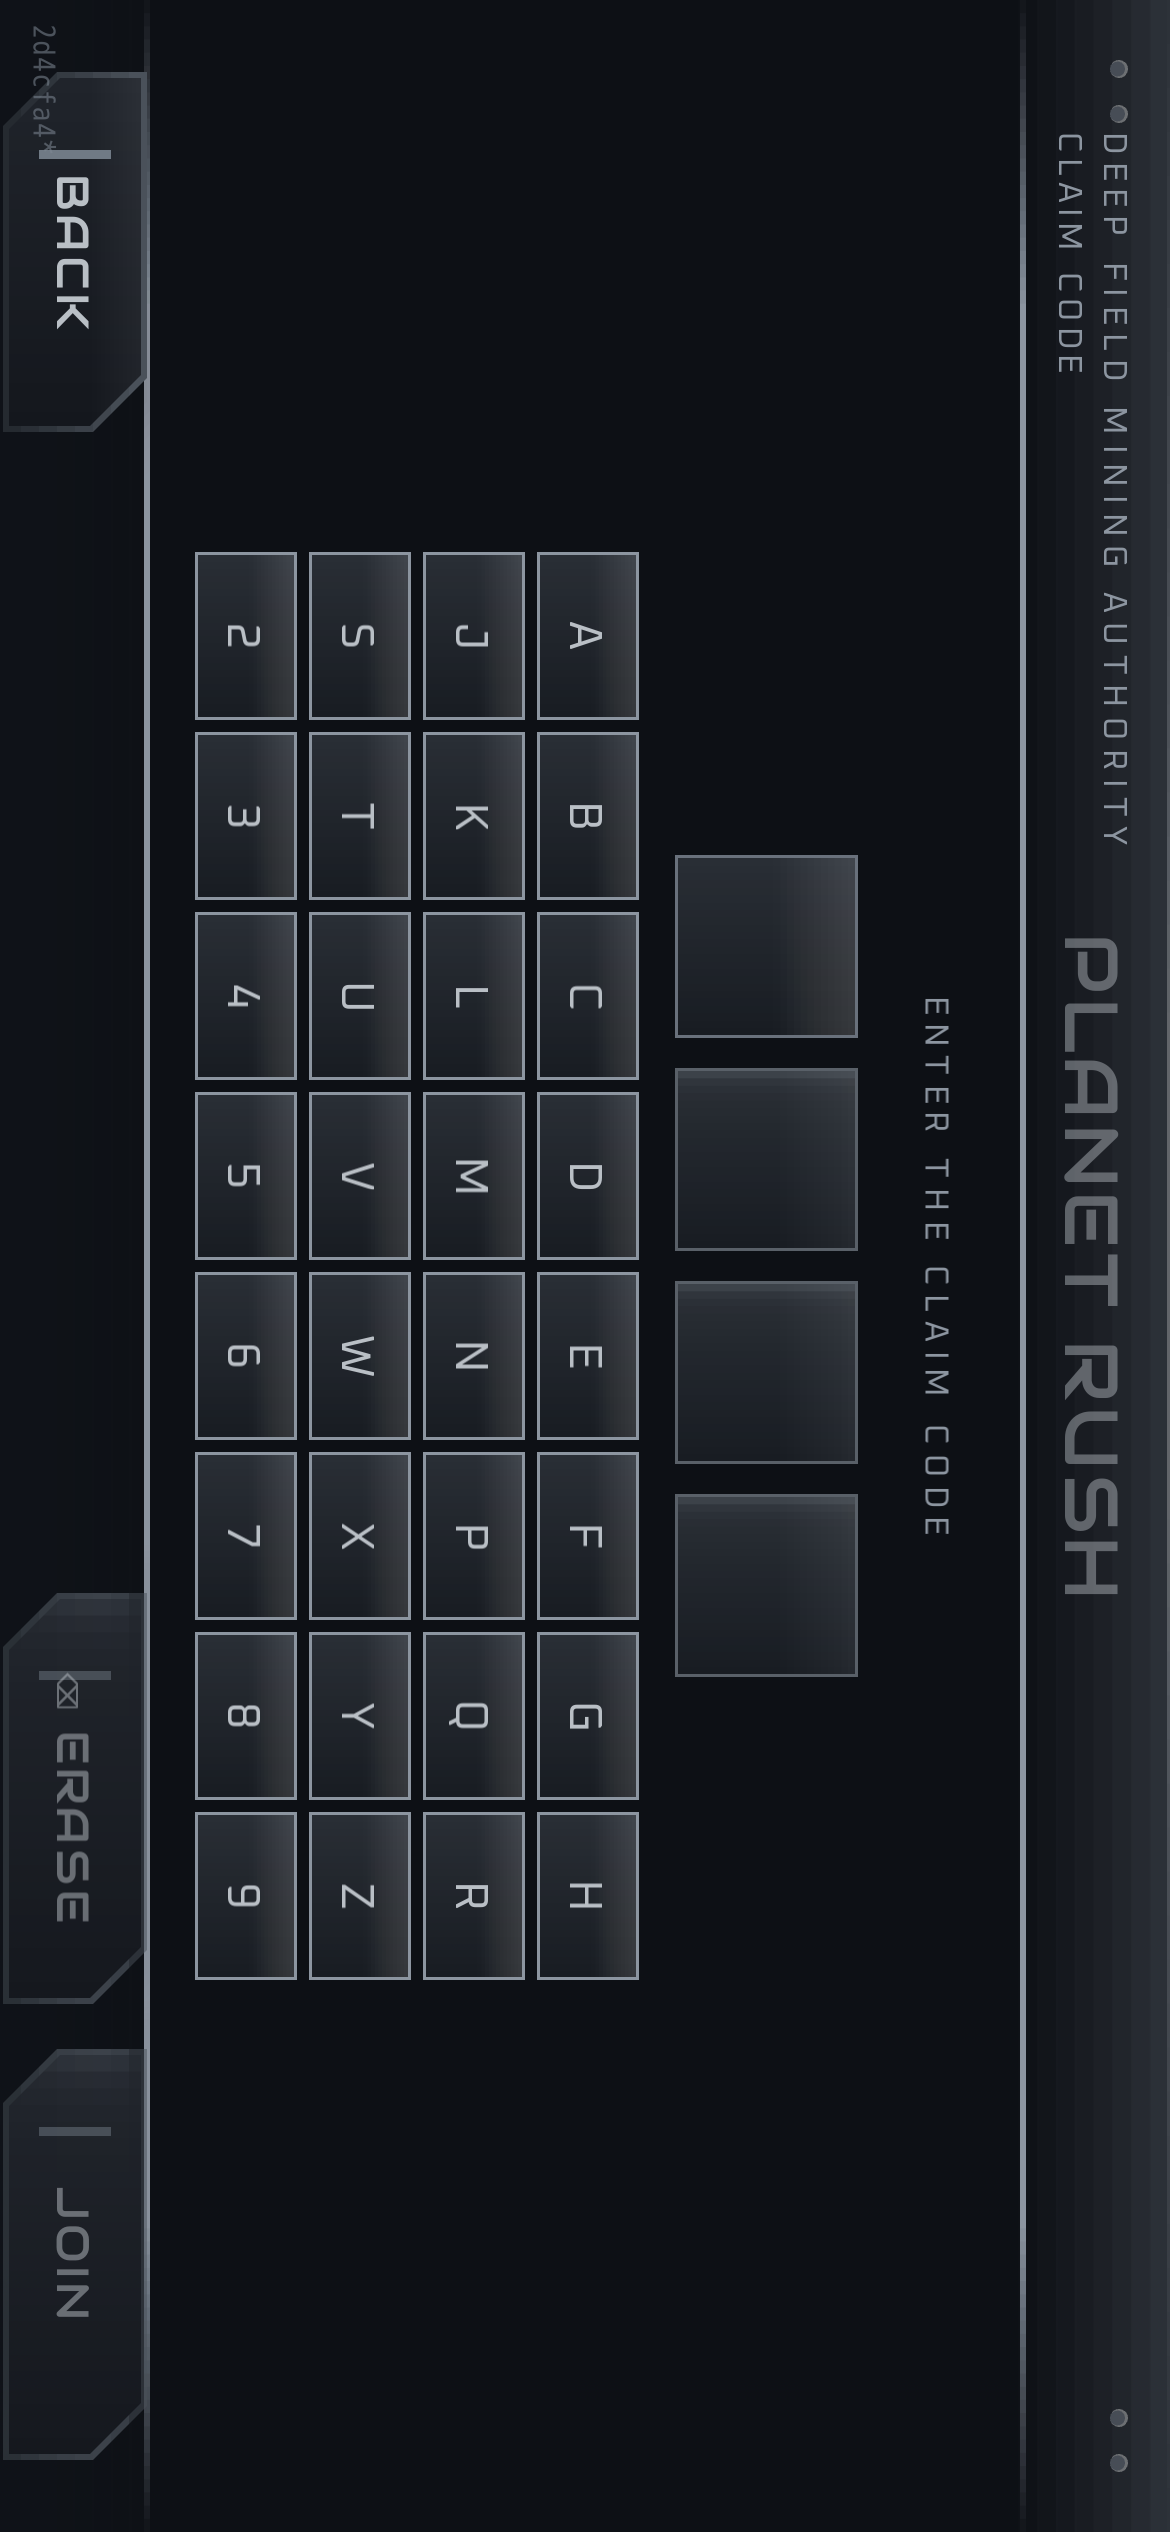
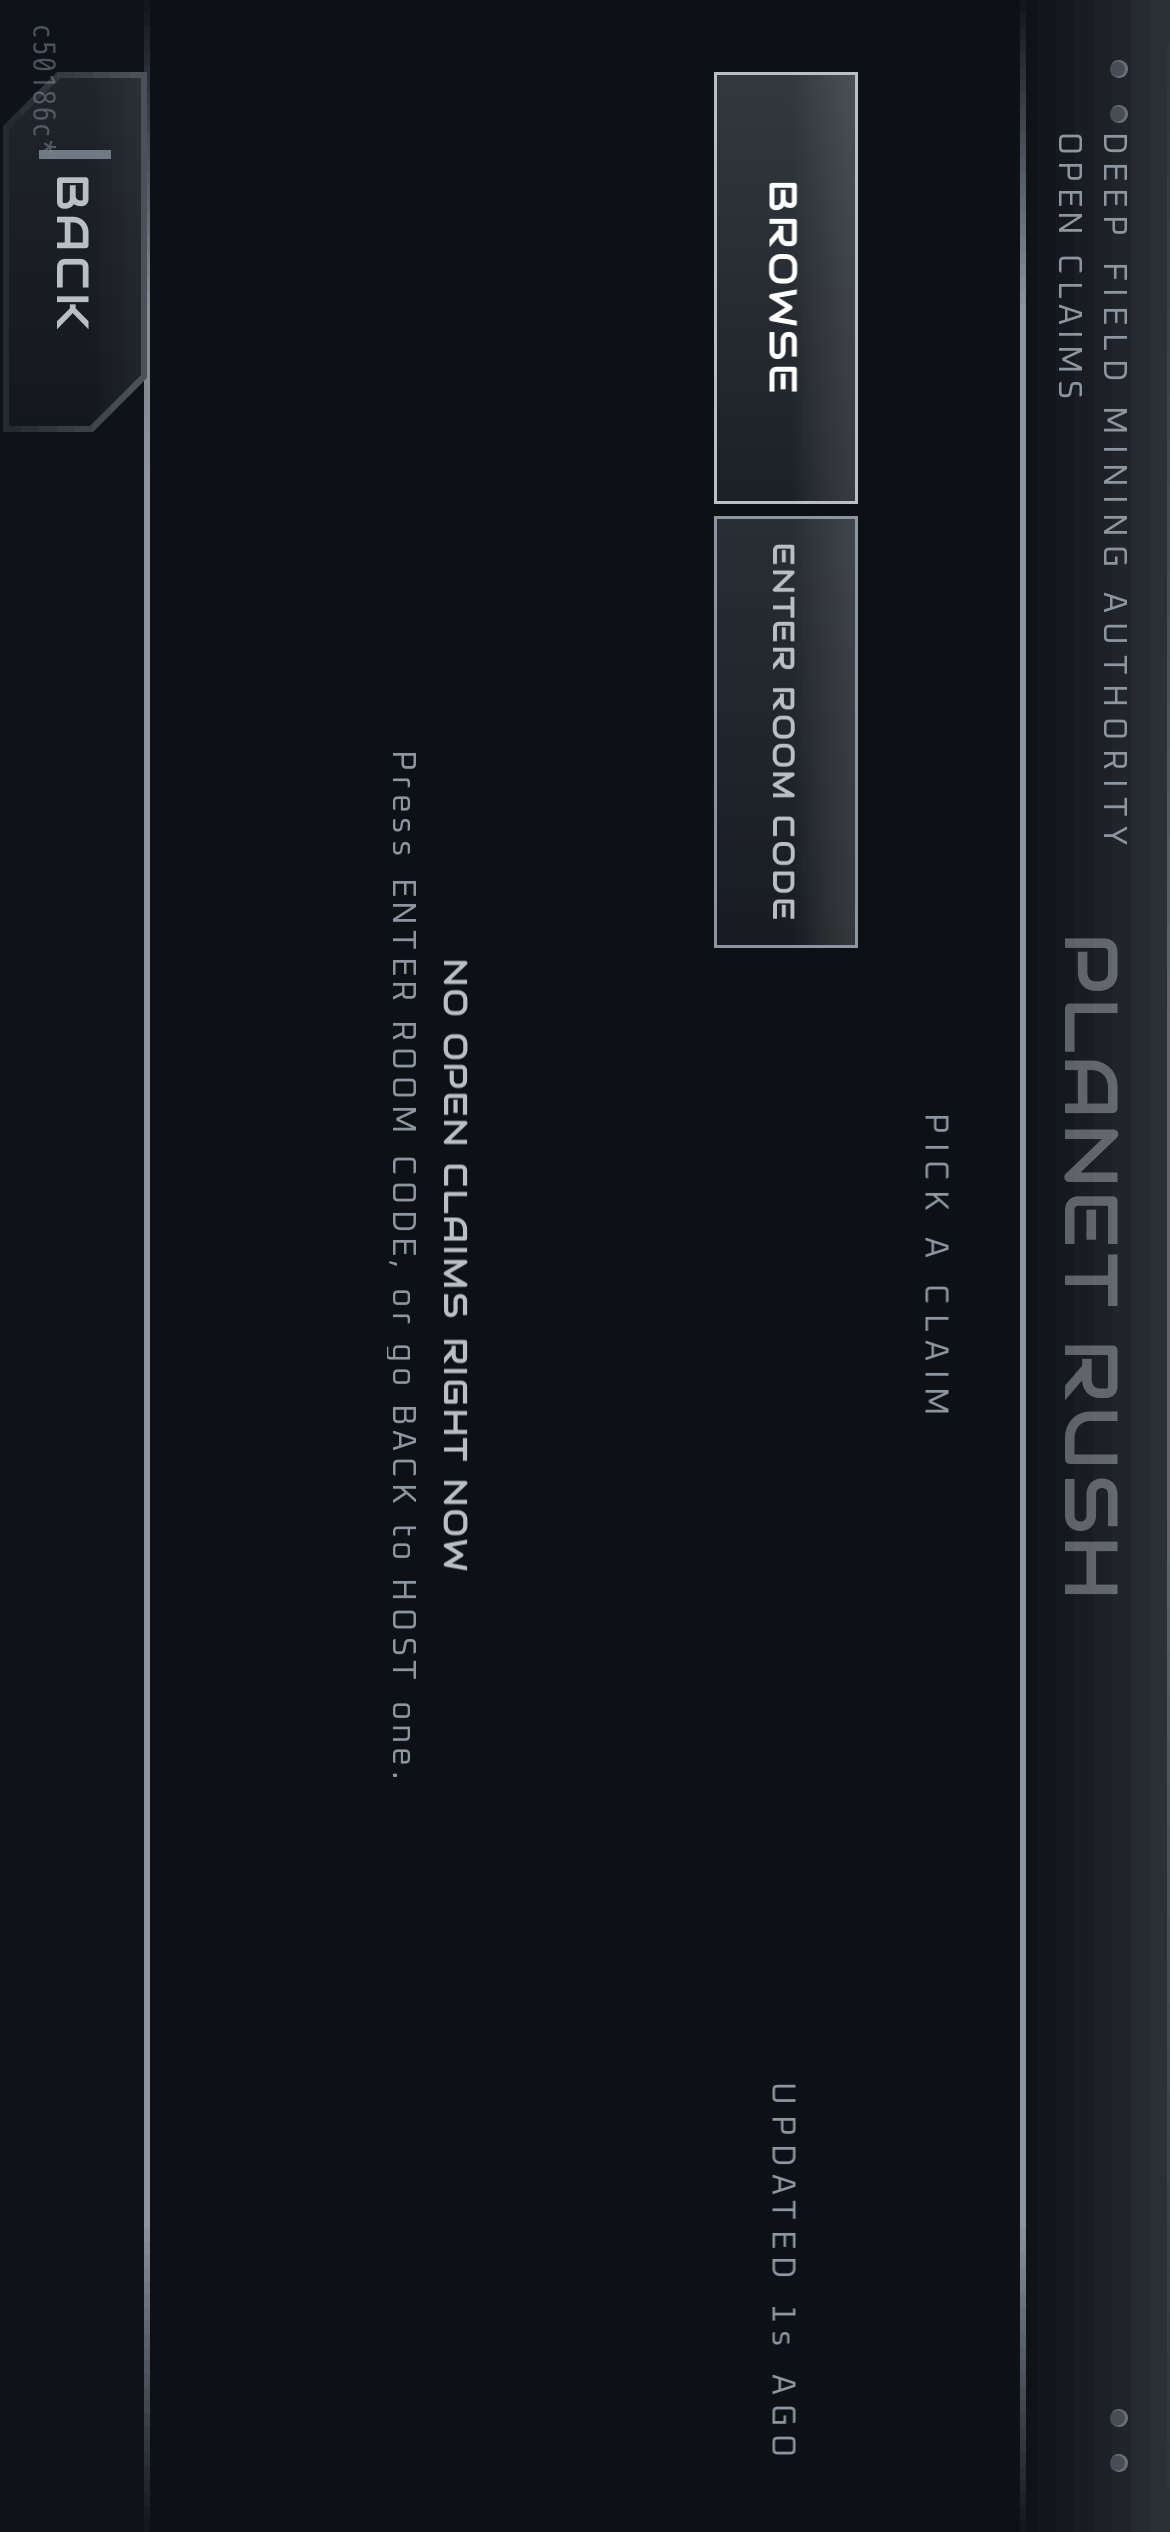
docs(a0-32): before/after at 390 landscape — the button, the wedge, and the selected wedge
Both sides captured by one script (`tools/a0-32-label-shots.mjs`) against a
preview build of the merge base and of this branch, so the only difference in the
frame is the fix.

diff --git a/tests/mobile/voice-copy-fit.spec.ts b/tests/mobile/voice-copy-fit.spec.ts
@@ -81,6 +81,12 @@ import { budgetTest } from './budgets';
 // the note above. `src/ui/typography.ts` is pure data (no Pixi, no DOM), so a
 // spec can read it directly, and now a face swap is one line in one place.
 import { FONT_BODY, FONT_HEADING } from '../../src/ui/typography';
+// a0-32: the committed per-glyph table, and the arithmetic built on it. This spec
+// is what stops it rotting into a note — see `the glyph table still measures what
+// it says it measures` below.
+import { ADVANCE_EM, LINE_HEIGHT_EM } from '../../src/ui/font-metrics.data';
+import { textWidth } from '../../src/ui/font-metrics';
+import type { MetricFace } from '../../src/ui/font-metrics';
 
 /**
  * One measured claim: a string, the face and size it is drawn at, and the box it
@@ -268,6 +274,121 @@ test('every voiced label fits the fixed-width chrome it is drawn in', async ({ p
  * of copy and layout only, and the assertion above is the durable check. These
  * exist so a human can read what the voice actually became.
  */
+/**
+ * The committed glyph table, re-measured in the real booted page (a0-32).
+ *
+ * `src/ui/font-metrics.data.ts` is what lets a UNIT test answer "does this label
+ * fit this shape" — the whole reason the wedge and the BUILD button can be
+ * asserted headless now instead of eyeballed in a screenshot. It is generated by
+ * `tools/font-metrics-scan.mjs` from `public/fonts/*.woff2`, and a generated file
+ * that nothing checks is a note that happens to compile. So this walks every row
+ * of it against `measureText` in the page that actually loaded those files.
+ *
+ * Two claims, and they are different claims:
+ *
+ *  1. **The per-glyph advances are exact.** Inside the faces' `unicode-range` the
+ *     browser is drawing from the file in this repo, so this must agree to the
+ *     pixel on every machine — that is why only that range is tabled at all (the
+ *     a1-01 trap, spelled out in the scanner's header).
+ *  2. **The whole-string arithmetic lands where it claims to.** The engine rounds
+ *     every glyph advance to a whole pixel and adds them up — it does not kern,
+ *     and it does not add fractions — which is why `font-metrics.ts` rounds per
+ *     glyph rather than once at the end. Summed the other way a 28-glyph line
+ *     comes out three pixels light, and light is the direction a fit budget may
+ *     not be wrong in. The residual is the engine's SECOND quantisation, of the
+ *     type size, which this model deliberately does not reproduce because it only
+ *     ever makes the model read wide.
+ */
+
+/** How far the headless model may sit from the page, px, and in which direction.
+ *
+ *  Above zero it is reading WIDE, which is safe and expected at the fractional
+ *  type sizes the wheel's profile ramp produces (the engine measures 13px metrics
+ *  for a 13.435px request; this model does not). Below zero it is reading light,
+ *  and a fit budget that reads light is the defect this whole brief is about — so
+ *  the floor is a whole pixel of the engine's own rounding and not a pixel more.
+ */
+const MODEL_LIGHT_TOLERANCE = 1;
+test('the glyph table still measures what it says it measures', async ({ page }, testInfo) => {
+  budgetTest({
+    work: 'boot the menu → font settle → re-measure the committed per-glyph table and the real UI strings',
+    measuredSeconds: 7,
+  });
+
+  await bootMenu(page);
+
+  const stacks: Record<MetricFace, { font: string; weight: string }> = {
+    heading: { font: FONT_HEADING, weight: '400' },
+    headingBold: { font: FONT_HEADING, weight: 'bold' },
+    body: { font: FONT_BODY, weight: '400' },
+    bodyBold: { font: FONT_BODY, weight: '700' },
+    bodyBlack: { font: FONT_BODY, weight: '800' },
+  };
+
+  const measured = await page.evaluate(
+    ([tables, lineHeights, stacksIn]) => {
+      const ctx = document.createElement('canvas').getContext('2d')!;
+      const REF = 1000;
+      const round = (n: number) => Math.round(n * 1e4) / 1e4;
+      const drift: Array<{ face: string; glyph: string; tabled: number; real: number }> = [];
+      const lines: Array<{ face: string; tabled: number; real: number }> = [];
+      for (const [face, table] of Object.entries(tables)) {
+        const s = (stacksIn as Record<string, { font: string; weight: string }>)[face]!;
+        ctx.letterSpacing = '0px';
+        ctx.font = `${s.weight} ${REF}px ${s.font}`;
+        for (const [glyph, tabled] of Object.entries(table as Record<string, number>)) {
+          const real = round(ctx.measureText(glyph).width / REF);
+          if (real !== tabled) drift.push({ face, glyph, tabled, real });
+        }
+        const m = ctx.measureText('|ÉqM');
+        lines.push({
+          face,
+          tabled: (lineHeights as Record<string, number>)[face]!,
+          real: round((m.actualBoundingBoxAscent + m.actualBoundingBoxDescent) / REF),
+        });
+      }
+      return { drift, lines };
+    },
+    [ADVANCE_EM, LINE_HEIGHT_EM, stacks] as const,
+  );
+
+  expect(
+    measured.drift.map((d) => `${d.face} "${d.glyph}": table says ${d.tabled}em, the page draws ${d.real}em`),
+    'the committed table is stale — run `node tools/font-metrics-scan.mjs`',
+  ).toEqual([]);
+  expect(measured.lines.filter((l) => l.real !== l.tabled)).toEqual([]);
+
+  // …and the whole-string claim: the model is an upper bound on what Pixi will
+  // measure, over the real UI copy above rather than over invented strings.
+  const strings = await page.evaluate((cases: readonly FitCase[]) => {
+    const ctx = document.createElement('canvas').getContext('2d')!;
+    return cases.map((c) => {
+      ctx.letterSpacing = '0px';
+      ctx.font = `${c.size}px ${c.font}`;
+      // Pixi adds its tracking BETWEEN glyphs (n − 1 gaps) rather than after each
+      // — `CanvasTextMetrics._measureText`, with `experimentalLetterSpacing` off.
+      return { where: c.where, text: c.text, plain: ctx.measureText(c.text).width };
+    });
+  }, CASES);
+
+  const light: string[] = [];
+  const report: string[] = [];
+  for (const s of strings) {
+    const c = CASES.find((x) => x.where === s.where && x.text === s.text)!;
+    const face: MetricFace = c.font === FONT_HEADING ? 'heading' : 'body';
+    const model = textWidth(c.text, { face, size: c.size, tracking: 0 });
+    const delta = model - s.plain;
+    if (delta < -MODEL_LIGHT_TOLERANCE) {
+      light.push(`${c.where}: model ${model.toFixed(2)}px < page ${s.plain.toFixed(2)}px`);
+    }
+    report.push(
+      `  ${delta >= 0 ? '+' : ''}${delta.toFixed(2)}px on ${s.plain.toFixed(0)}px (${c.text.length} glyphs)  ${c.where}`,
+    );
+  }
+  console.log(`[font-metrics model vs page / ${testInfo.project.name}]\n${report.join('\n')}`);
+  expect(light, 'the headless width model reads light — a fit budget may not be optimistic').toEqual([]);
+});
+
 test('screenshots the voiced screens for review', async ({ page }, testInfo) => {
   budgetTest({
     work: 'boot the menu → walk main menu, doors, keypad → capture three screens',

diff --git a/src/ui/font-metrics.ts b/src/ui/font-metrics.ts
@@ -44,14 +44,25 @@
  * weights — which is why a stack of four lines is a fifth taller than four times
  * its type size.
  *
- * ── WHAT THIS IS AN UPPER BOUND OF, AND BY HOW MUCH ────────────────────────
- * `measureText` on a whole string applies kerning; summing per-glyph advances
- * does not. Measured across the UI's real strings the difference is ≤ `.1em`
- * TOTAL for a twelve-character line and always in the same direction — the sum is
- * never smaller than the string. So this over-reports by a fraction of one glyph
- * and never under-reports, which is the right way round for a budget: a label
- * that passes here fits on the device, and `voice-copy-fit.spec.ts` asserts that
- * relationship rather than assuming it.
+ * ── QUANTISATION, WHICH IS WHY THE ROUNDING IS WHERE IT IS ─────────────────
+ * The engine does not lay glyphs out on fractional pixels. Every advance comes
+ * back as a whole number — `measureText` of a 28-glyph line at 11px returns
+ * exactly `174`, and it returns it because each glyph in it was rounded first and
+ * then added, not the other way round. Sum the `em` values and round once at the
+ * end and you get 171: three pixels light, in the optimistic direction, on
+ * exactly the kind of line that is drawn into a fixed box.
+ *
+ * So {@link textWidth} rounds per glyph. What it does NOT reproduce is the second
+ * quantisation, of the type SIZE: asked for 13.435px the engine measures the 13px
+ * metrics, so at the fractional sizes the wheel's profile ramp produces this model
+ * reads a little WIDE. That is the direction a budget wants to be wrong in, and
+ * it is why the wheel's own margin is 4px rather than a hairline.
+ *
+ * There is no kerning term because there is no kerning: measured against the real
+ * page, `measureText(whole)` equals the sum of its glyphs' advances exactly, in
+ * every string this UI draws. `tests/mobile/voice-copy-fit.spec.ts` re-measures
+ * both claims — the table, glyph by glyph, and this arithmetic, string by string —
+ * so neither is believed on the strength of this paragraph.
  */
 
 import { ADVANCE_EM, LINE_HEIGHT_EM, type MetricFace } from './font-metrics.data';
@@ -99,15 +110,19 @@ export function untabledGlyphs(text: string, face: MetricFace): readonly string[
 /** One line's width in px — no `\n` handling, so {@link textWidth} can fold. */
 function lineWidth(line: string, spec: TypeSpec): number {
   const table = ADVANCE_EM[spec.face];
-  let em = 0;
+  let px = 0;
   let glyphs = 0;
   for (const ch of line) {
-    em += table[ch] ?? UNTABLED_ADVANCE_EM;
+    // Rounded per glyph, because that is what the engine does — see the note on
+    // quantisation in the header. Summing the un-rounded advances and rounding
+    // once at the end is a different number, and on a 28-glyph line it is a
+    // different number by three pixels.
+    px += Math.round((table[ch] ?? UNTABLED_ADVANCE_EM) * spec.size);
     glyphs++;
   }
   // The spacing lands BETWEEN glyphs — `n − 1` gaps, exactly as Pixi adds them.
   const spacing = glyphs > 1 ? (glyphs - 1) * spec.tracking * spec.size : 0;
-  return em * spec.size + spacing;
+  return px + spacing;
 }
 
 /**

diff --git a/src/ui/__scratch.test.ts b/src/ui/__scratch.test.ts
@@ -1,0 +1,35 @@
+import { describe, it } from 'vitest';
+import { BUILD_BUTTON_LABEL, roundLabelHalfWidth, BUILD_BUTTON_RADIUS, BUILD_BUTTON_RIM } from './build-button';
+import { textHeight, textWidth } from './font-metrics';
+import { wheelRadius } from './hud-geometry';
+import { wheelMetrics } from '../art/materials';
+import { buildWheelModel, WHEEL_ORDER, segmentAngle } from './build-wheel';
+import { buildWedgeLines, wedgeStackBoxes, fitWedgeStack } from './wheel-stack';
+
+const WORST = { requested: true, docked: true, shipAlive: true, stationAlive: true, cargo: 0, banked: 999, turrets: 4, shields: 2, satellites: 1, coreHp: 40, maxCoreHp: 100, repairGate: 15 } as never;
+
+describe('scratch', () => {
+  it('dumps', () => {
+    for (const l of BUILD_BUTTON_LABEL) {
+      const spec = { face: l.face, size: l.size, tracking: l.tracking };
+      const h = textHeight(l.text, spec);
+      const w = textWidth(l.text, spec);
+      const avail = 2 * roundLabelHalfWidth(BUILD_BUTTON_RADIUS, BUILD_BUTTON_RIM, Math.abs(l.centreY) + h / 2);
+      console.log(`SCRATCH BTN ${l.text.padEnd(11)} size=${l.size} w=${w.toFixed(2)} avail=${avail.toFixed(2)} headroom=${((1 - w / avail) * 100).toFixed(1)}%`);
+    }
+    for (const { name, vp } of [{ name: 'iphone/landscape', vp: { width: 844, height: 390 } }, { name: 'desktop', vp: { width: 1280, height: 800 } }, { name: 'small/landscape', vp: { width: 568, height: 320 } }]) {
+      const outer = wheelRadius(vp.width, vp.height);
+      const m = wheelMetrics(outer);
+      for (const selected of [false, true]) {
+        for (const [i, seg] of buildWheelModel(WORST).segments.entries()) {
+          const lines = buildWedgeLines(seg, m, selected);
+          const angle = segmentAngle(i);
+          const fit = fitWedgeStack(lines, outer, m, angle, WHEEL_ORDER.length);
+          const design = wedgeStackBoxes(lines, outer, m, angle).centreRadius;
+          if (design - fit.radius > 0.05 || fit.nameScale < 1)
+            console.log(`SCRATCH ${name.padEnd(17)}${selected ? 'SEL ' : '    '}${seg.id.padEnd(10)} moved=${(design - fit.radius).toFixed(1).padStart(5)} nameScale=${fit.nameScale.toFixed(3)}`);
+        }
+      }
+    }
+  });
+});

diff --git a/evidence/a0-32-label-overflow/README.md b/evidence/a0-32-label-overflow/README.md
@@ -1,0 +1,32 @@
+# a0-32 — two labels run past the shapes that hold them
+
+Captured at **844×390 logical, dpr 3** — the landscape phone the developer
+photographed — with `tools/a0-32-label-shots.mjs`, against a `vite preview` of
+each side:
+
+* `before-*` — a build of `origin/main` at the merge base (the code the report
+  was filed against);
+* `after-*` — the same script against this branch.
+
+Everything else about the two runs is identical: same seeded frozen scene
+(`?debug=1&freeze=1`), same 8 banked ore, same wedge.
+
+| file | what to look at |
+|---|---|
+| `*-2-build-button.png` | **`& UPGRADE`**. Before, the `&` and the final `E` sit ON the ring and break the circle's silhouette on both sides. After, the word is inside the ring with clear air on each side. |
+| `*-3-upgrade-wedge.png` | **`UPGRADE SHIP`**, resting. Before, `UPGRADE` starts to the LEFT of the wheel's rim and is drawn over the station behind it. After, it is inside the disc. |
+| `*-5-upgrade-wedge-selected.png` | the same wedge **selected** (u16-01) — the state the design draws the name larger in, and the one that fits at no radius on this profile until the growth is capped to what the wedge can hold. |
+| `*-1-wheel-open.png`, `*-4-wheel-selected.png` | the whole frame each crop comes from. |
+| `*-0-hud.png` | the live HUD the BUILD button crop comes from (`?debug=1`, unfrozen — the ship spawns docked). |
+
+The selected frames are driven with a real `pointermove` rather than a real
+touch: on the UPGRADE SHIP wedge a press is the gesture that OPENS the upgrade
+panel, so a `touchStart` there photographs the next screen instead of this one.
+Same shipped handler, same selection, same profile.
+
+**The durable check is not these pictures.** They show one string at one size;
+`src/ui/hud-geometry.test.ts` asserts the rule — every line of every wedge inside
+its own annular sector, at every profile in the matrix, in both selection states,
+on both wheels — and `src/ui/build-button.test.ts` +
+`src/platform/touch-visuals.test.ts` do the same for the circle. Reverting the
+placement turns those red at every profile, desktop included.
